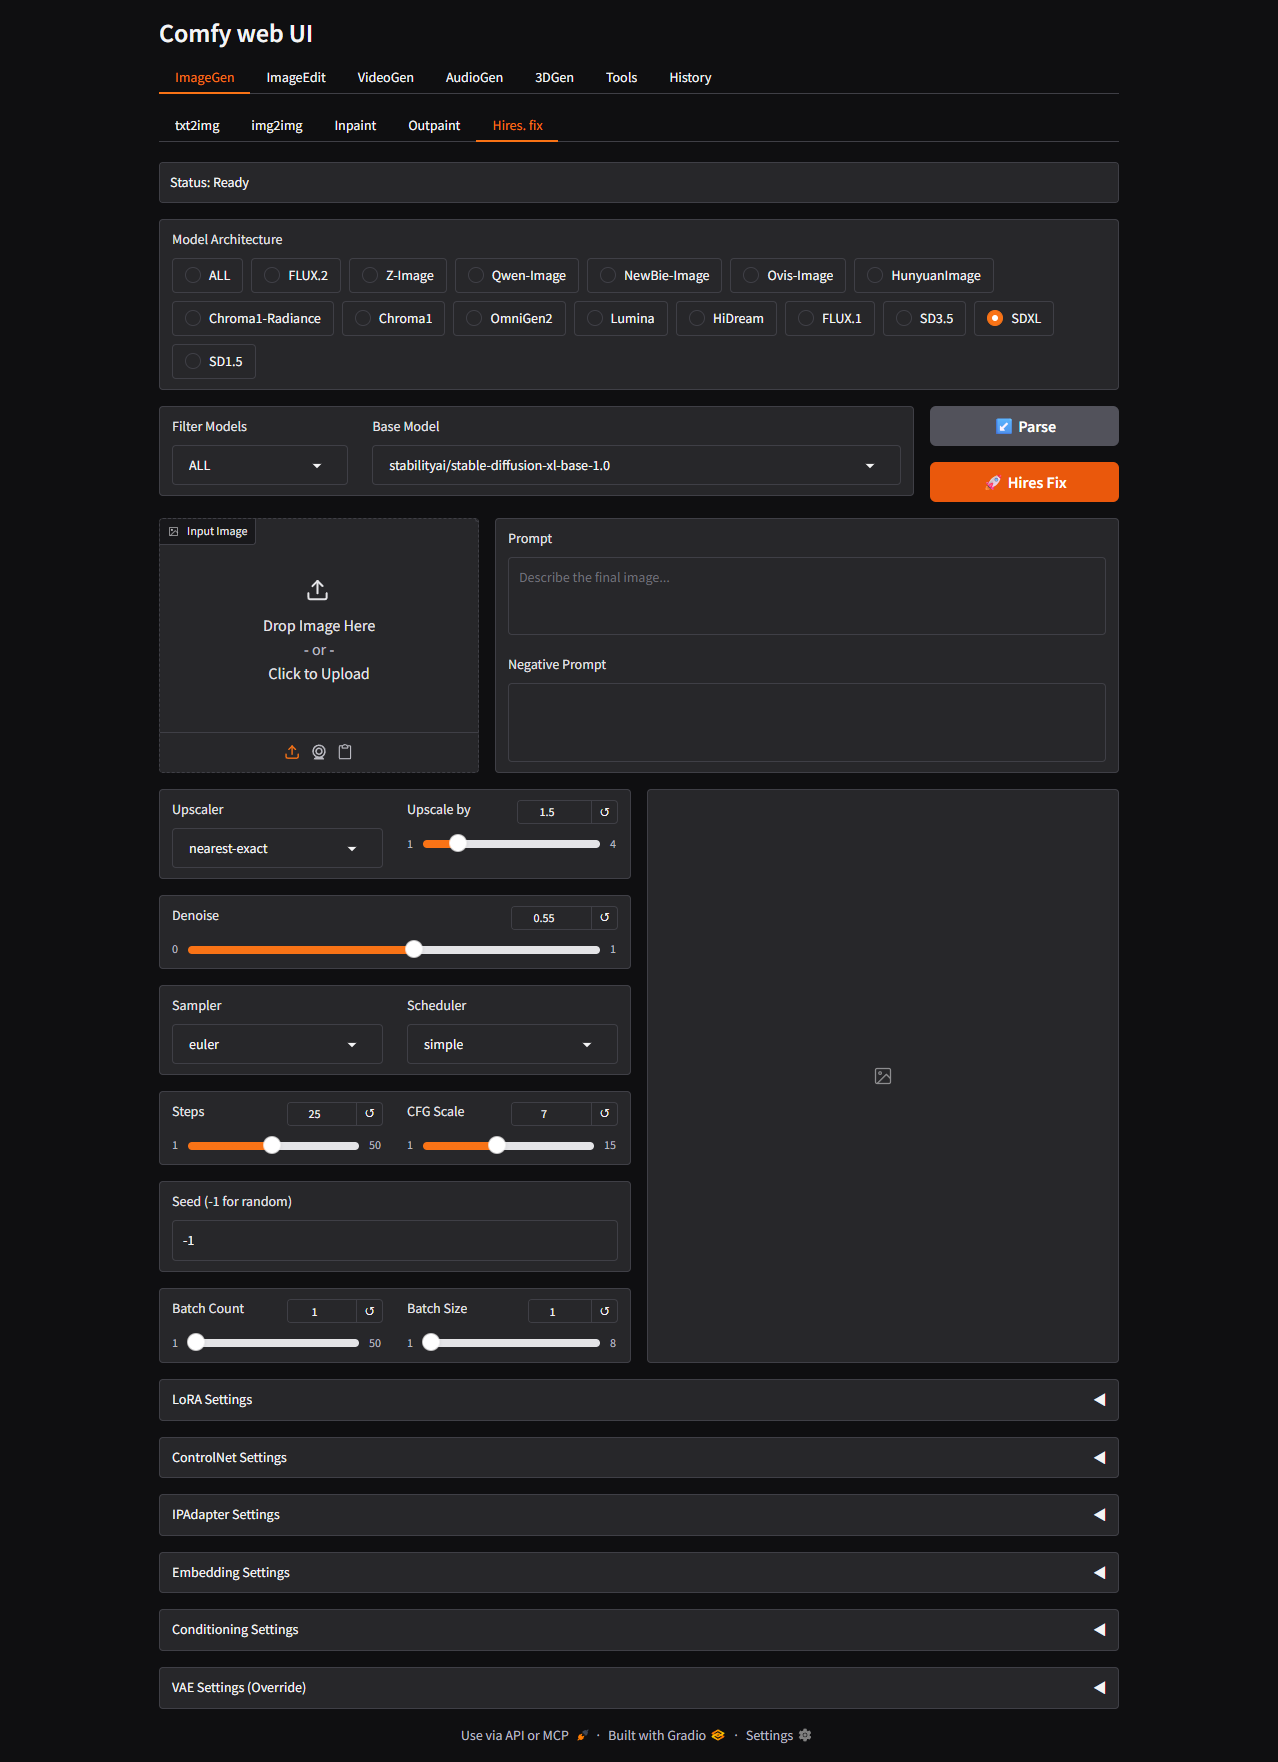
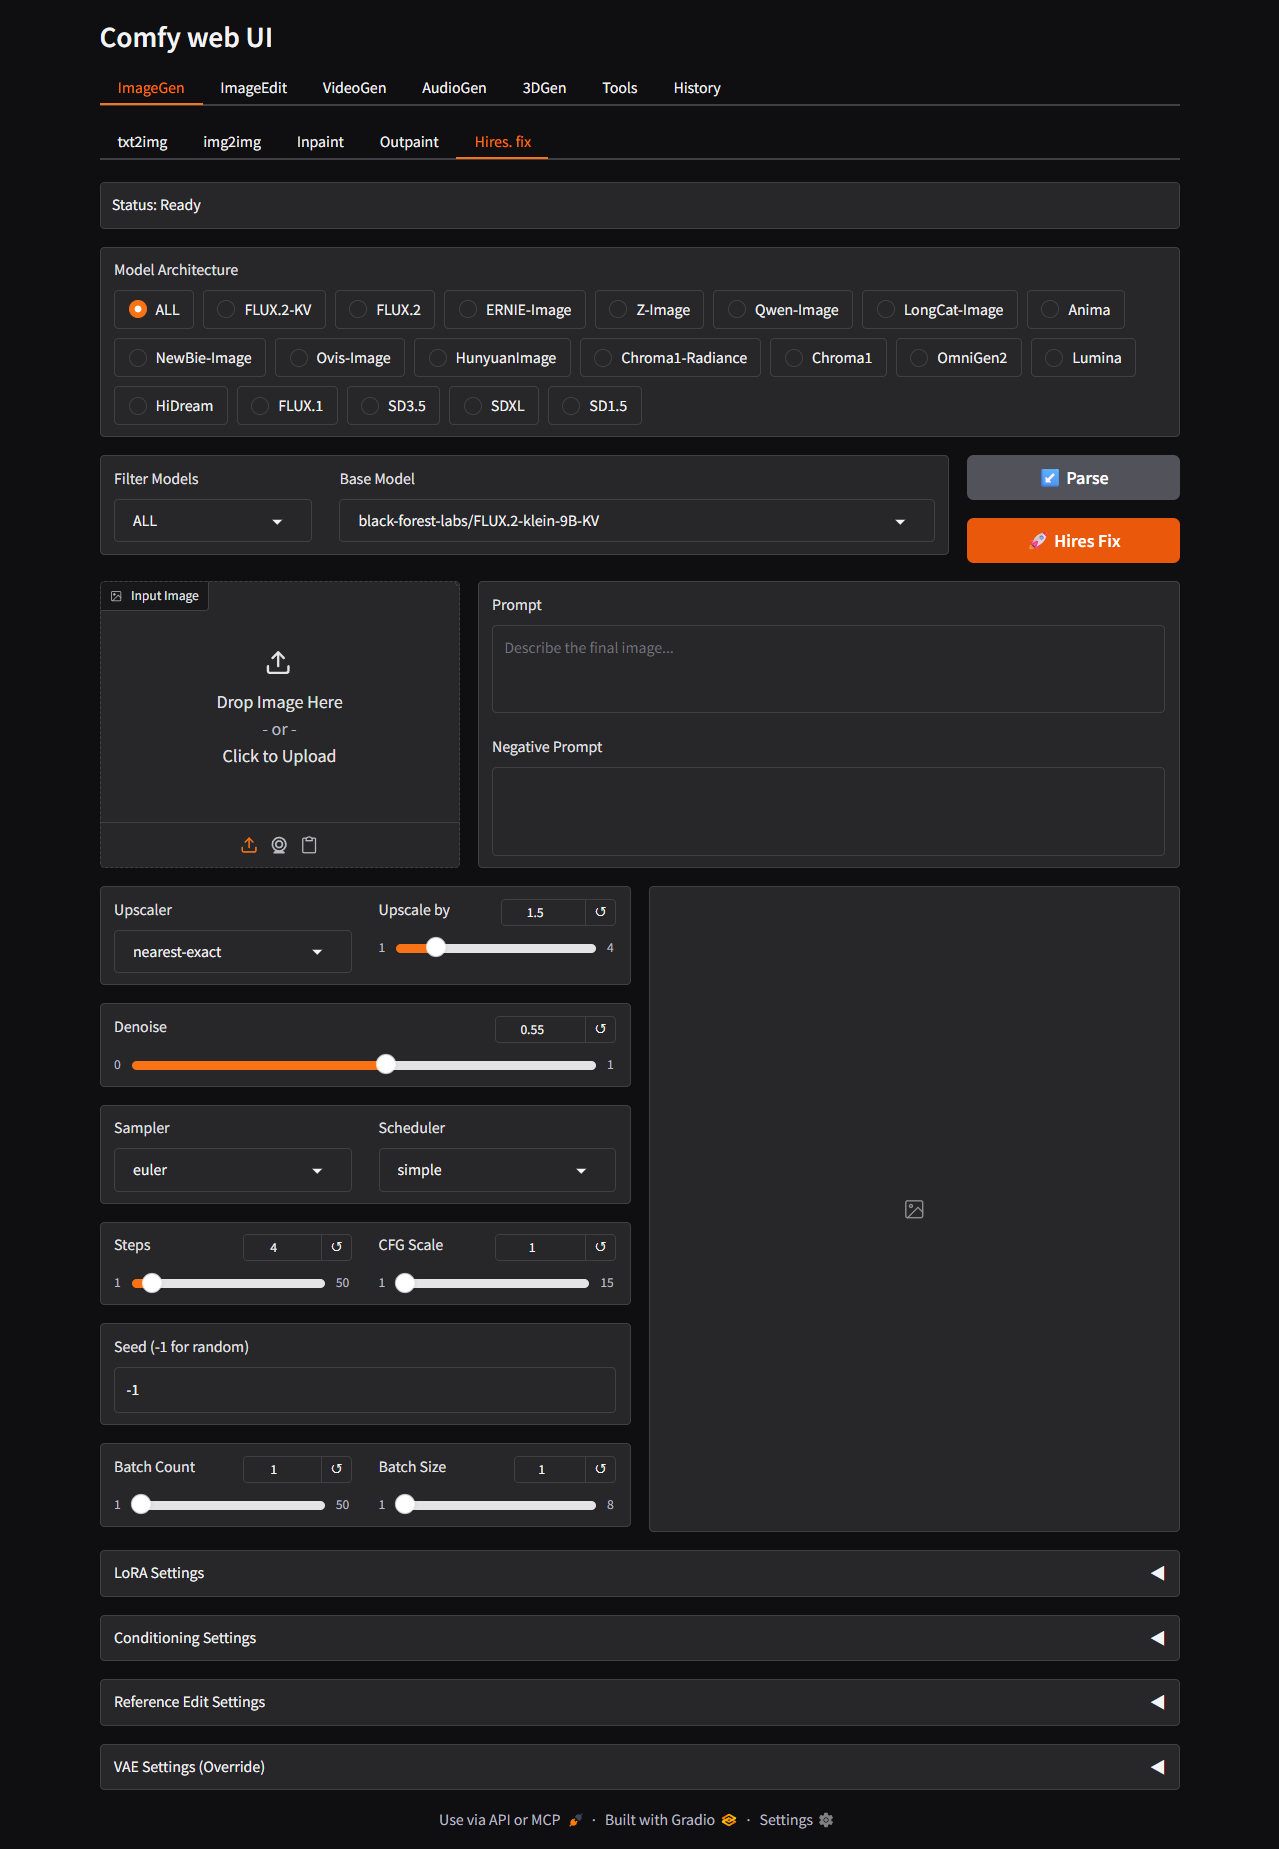
[ImageGen] Add ERNIE-Image architecture model.

Changed region(s): [[0.061, 0.0, 0.946, 0.9989]]

diff --git a/README.md b/README.md
@@ -25,7 +25,7 @@ Comfy web UI is more than a modular, mobile-first frontend for ComfyUI — it's 
 This project integrates many popular AI generation models and utilities into a single, one-stop creative suite.
 
 - **🖥 Dual UI modes**
-  - **[Professional creation panel](https://github.com/RioShiina47/comfy-webui/blob/main/Screenshot/UI/ImageGen/txt2img.png) (ImageGen):** Parameter-rich design offering full creative control. **[HF spaces](https://huggingface.co/spaces/RioShiina/ImageGen-SDXL)** 🤗
+  - **[Professional creation panel](https://github.com/RioShiina47/comfy-webui/blob/main/Screenshot/UI/ImageGen/txt2img.png) (ImageGen):** Parameter-rich design offering full creative control. **[HF spaces](https://huggingface.co/collections/RioShiina/imagegen)** 🤗
   - **[One-tap compact panels](https://github.com/RioShiina47/comfy-webui/blob/main/Screenshot/UI/ImageEdit/Instruction%20%26%20Reference%20Edit/FLUX-2.png) (ImageEdit, VideoGen, AudioGen, 3DGen):** Use best-practice fixed parameters to maximize simplicity, optimized for mobile.
 
 - **🤖 [API & MCP ready](https://github.com/RioShiina47/comfy-webui/blob/main/Screenshot/API_MCP/API_MCP.png) — Workflow as a Service**
@@ -41,7 +41,7 @@ This project integrates many popular AI generation models and utilities into a s
   The image generation features are built around a matrix-style dynamic workflow assembly mechanism. You can freely combine "task dimensions" and "model dimensions" to form dozens of base generation modes.
 
   - **Task dimension (`task_type`)**: supports `txt2img`, `img2img`, `Inpaint`, `Outpaint`, `Hires. fix`.
-  - **Model dimension (`model_type`)**: supports a wide range of model families such as `FLUX.2`, `Z-Image`, `Qwen-Image`, `LongCat-Image`, `Anima`, `NewBie-Image`, `Ovis-Image`, `HunyuanImage`, `Chroma1-Radiance`, `Chroma1`, `Lumina`, `HiDream`, `FLUX.1`, `SD3.5`, `SDXL`, `SD1.5`, etc.
+  - **Model dimension (`model_type`)**: supports a wide range of model families such as `FLUX.2`, `Z-Image`, `Qwen-Image`, `ERNIE-Image`, `LongCat-Image`, `Anima`, `NewBie-Image`, `Ovis-Image`, `HunyuanImage`, `Chroma1-Radiance`, `Chroma1`, `Lumina`, `HiDream`, `FLUX.1`, `SD3.5`, `SDXL`, `SD1.5`, etc.
 
   After selecting a base mode, you can stack dynamic capabilities onto the workflow using Chain Injectors:
 
